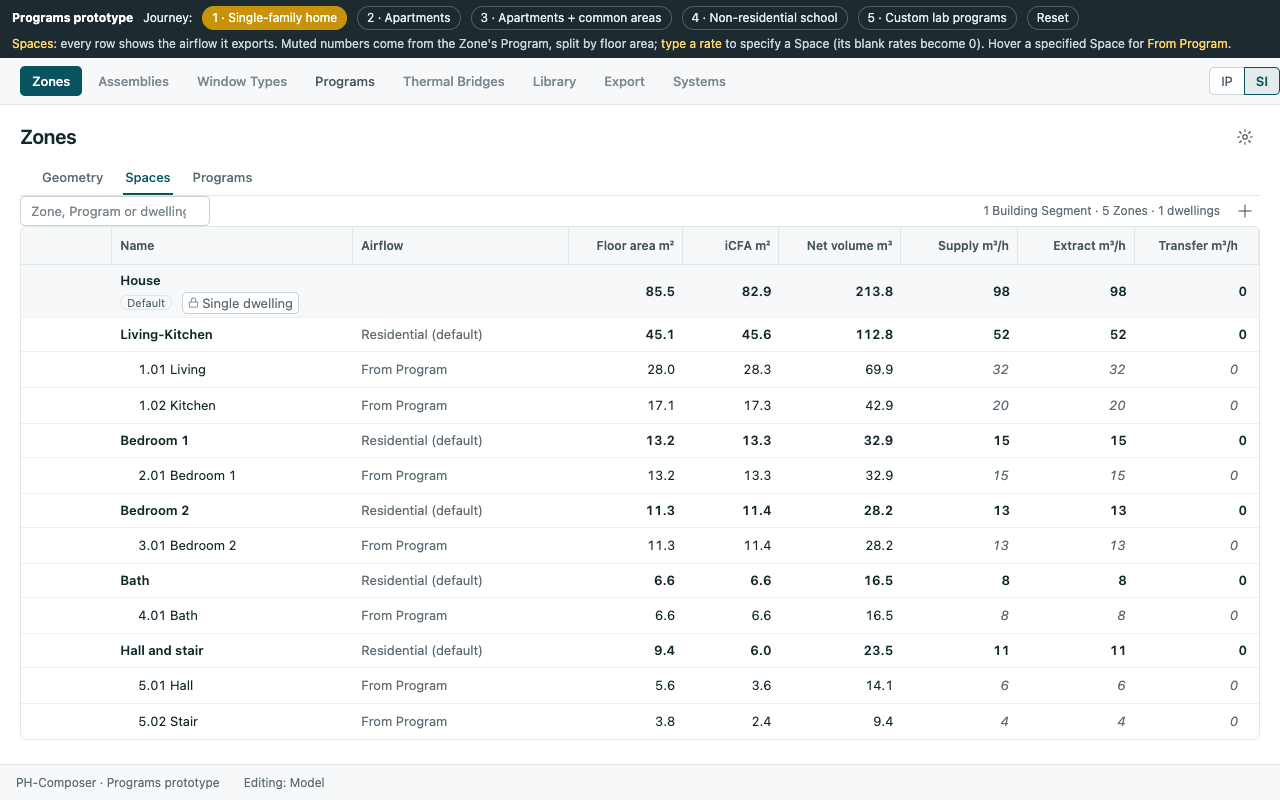
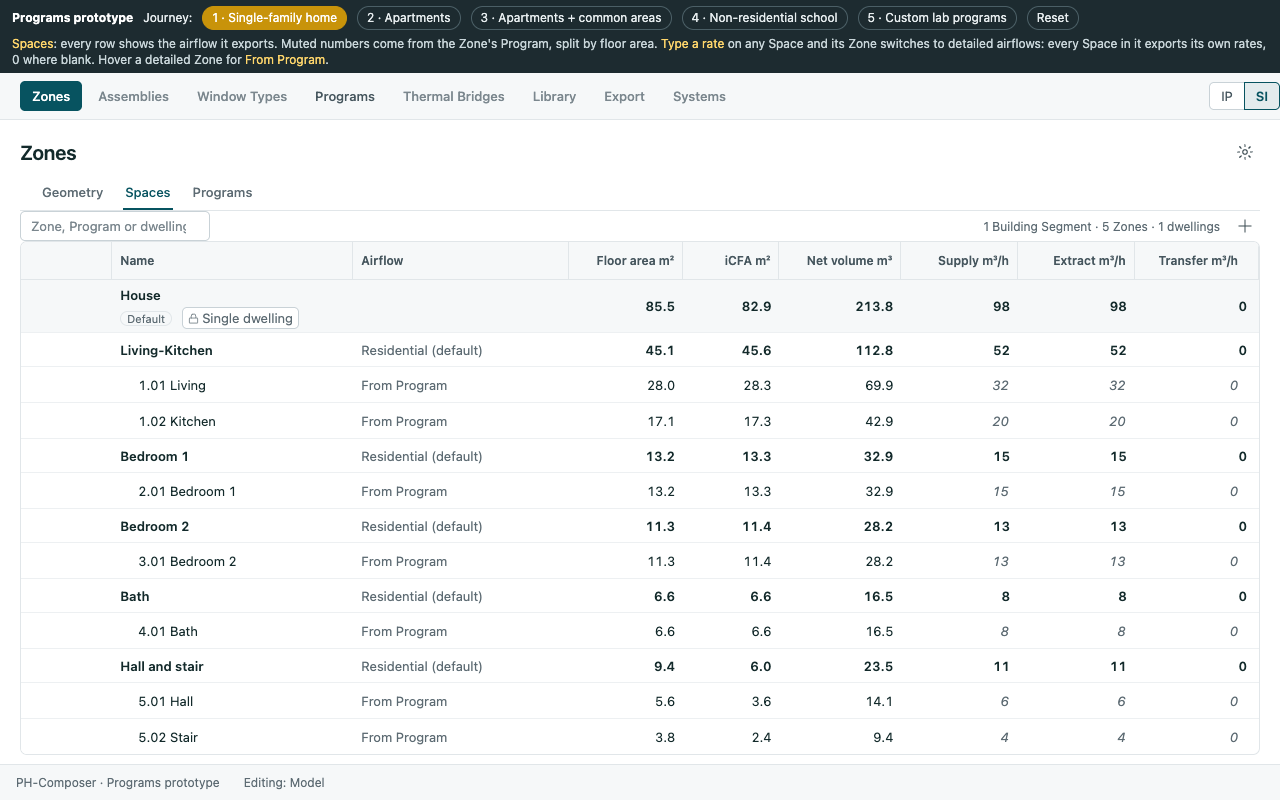
Phase 4a: record Q4a-29 to Q4a-32; detailed airflows become a Zone mode
Once any Space in a Zone has a rate, every Space in it exports its own
rates, 0 where blank (Q4a-29, Q4a-30). EnergyPlus keeps the Program's
Ventilation load (Q4a-31). A Zone with no Spaces is an export warning:
a PHX round trip confirms it builds with iCFA 0 and no ventilation rooms
(F4a-28, Q4a-32). The Spaces mockup follows.

diff --git a/planning/features/phase-04a-program/mockups/programs.html b/planning/features/phase-04a-program/mockups/programs.html
@@ -606,9 +606,13 @@
     dlg.showModal();
   }
   // ---------------------------------------------------------------- Zones / Spaces view: airflow per Space
-  // A Space with no rate entered takes its floor share of the Zone's Program ventilation (PHX's split);
-  // a Space with any rate entered is specified, and its blank rates count as 0. The schedule is always the Program's.
-  function spMode(sp) { return sp.sup === null && sp.eta === null && sp.tran === null ? "program" : "specified"; }
+  // Q4a-29/30: a Zone is From Program until any of its Spaces has a rate; then it uses detailed airflows and every
+  // Space exports its own rates, 0 where blank. From Program, each Space takes its floor share of the Program's
+  // ventilation (PHX's split). The schedule is always the Program's.
+  function hasRate(sp) { return !(sp.sup === null && sp.eta === null && sp.tran === null); }
+  function zoneDetailed(z) { return (z.spaces || []).some(hasRate); }
+  function zoneOf(sp) { var hit = null; S.zones.forEach(function (z) { if ((z.spaces || []).indexOf(sp) >= 0) hit = z; }); return hit; }
+  function spMode(sp) { return zoneDetailed(zoneOf(sp)) ? "specified" : "program"; }
   function spShare(z, sp) { var tot = z.spaces.reduce(function (a, x) { return a + x.area; }, 0); return tot ? sp.area / tot : 0; }
   function zoneVent(z) { var d = derived(z); return d.ventMissing ? null : d.vent; }
   function spFlow(z, sp) {
@@ -617,9 +621,8 @@
     return { sup: v * spShare(z, sp), eta: v * spShare(z, sp), tran: 0 };
   }
   function findSpace(spid) { var hit = null; S.zones.forEach(function (z) { (z.spaces || []).forEach(function (sp) { if (sp.id === spid) hit = { z: z, sp: sp }; }); }); return hit; }
-  function info(text) { return '<span class="zp-info" role="img" aria-label="' + esc(text) + '" data-tip="' + esc(text) + '">' + svg("info", 13) + '</span>'; }
   function flowSum(v, any) { return any ? '<span class="zp-amber" data-tip="The Program has no ventilation rates yet.">?</span>' : fmt(v); }
-  var SPACES_HINT = "<em>Spaces</em>: every row shows the airflow it exports. Muted numbers come from the Zone's Program, split by floor area; <em>type a rate</em> to specify a Space (its blank rates become 0). Hover a specified Space for <em>From Program</em>.";
+  var SPACES_HINT = "<em>Spaces</em>: every row shows the airflow it exports. Muted numbers come from the Zone's Program, split by floor area. <em>Type a rate</em> on any Space and its Zone switches to detailed airflows: every Space in it exports its own rates, 0 where blank. Hover a detailed Zone for <em>From Program</em>.";
   function spacesTable() {
     var COLS = [["name", "Name", 190], ["src", "Airflow", 170], ["area", "Floor area m²", 90, 1], ["icfa", "iCFA m²", 76, 1], ["vol", "Net volume m³", 96, 1], ["sup", "Supply m³/h", 92, 1], ["eta", "Extract m³/h", 92, 1], ["tran", "Transfer m³/h", 98, 1]];
     var tips = { src: "Where each Space's airflow comes from. From Program: the Zone's Program ventilation, split by Space floor area. Specified: the rates entered here. The Program's schedule applies either way.",
@@ -635,27 +638,25 @@
     function numCells(o) { return '<td class="num">' + fmt(o.area, 1) + '</td><td class="num">' + fmt(o.icfa, 1) + '</td><td class="num">' + fmt(o.vol, 1) + '</td><td class="num">' + flowSum(o.sup, o.unknown) + '</td><td class="num">' + flowSum(o.eta, o.unknown) + '</td><td class="num">' + fmt(o.tran) + '</td>'; }
     function zoneRows(z, exported) {
       var p = effectiveProgram(z), o = sums([z]), out = '';
-      var spec = z.spaces.filter(function (sp) { return spMode(sp) === "specified"; }), fromP = z.spaces.length - spec.length, pv = zoneVent(z);
-      var note = "";
-      if (exported && spec.length && fromP) {
-        var a = 0, b = 0; z.spaces.forEach(function (sp) { var f = spFlow(z, sp); if (spMode(sp) === "specified") a += f.sup; else b += f.sup || 0; });
-        note = info("Supply: " + fmt(a) + " m³/h specified, plus " + fmt(b) + " m³/h from the Program for the other Spaces, each at its full floor share. The Program alone gives this Zone " + (pv === null ? "?" : fmt(pv)) + " m³/h.");
-      } else if (exported && spec.length) note = info("Every Space is specified, so the Program's flow is not used. Its schedule still applies.");
-      out += '<tr class="tier-1 zp-zone-row' + (exported ? "" : " zp-out") + '"><td class="col-actions"></td><td>' + esc(z.name) + '</td>' +
-        '<td>' + (exported ? '<span class="zp-src-prog" data-tip="Ventilation from ' + esc(p.name) + ': its flow, split by Space floor area, for Spaces with no rates, and its schedule for every Space.">' + esc(p.name) + '</span>' + note : "Not exported") + '</td>' + numCells(o) + '</tr>';
-      if (!z.spaces.length) out += '<tr class="tier-2 zp-nospace"><td class="col-actions"></td><td colspan="' + COLS.length + '"><span class="zp-sp-name">' + flag("No Spaces: PHX builds ventilation rooms from Spaces, so this Zone would export no ventilation and no iCFA to WUFI-Passive or METr. To confirm (F4a-28, Q4a-32).") + ' No Spaces</span></td></tr>';
+      var detailed = zoneDetailed(z), pv = zoneVent(z);
+      var src = !exported ? "Not exported" : detailed
+        ? '<span class="zp-seg-tag" data-tip="Detailed airflows: a Space in this Zone has a rate, so every Space exports its own rates, 0 where blank. ' + esc(p.name) + ' still gives the schedule; its flow alone would be ' + (pv === null ? "?" : fmt(pv)) + ' m³/h.">Detailed</span> <span class="zp-src-prog">' + esc(p.name) + '</span>'
+        : '<span class="zp-src-prog" data-tip="Ventilation from ' + esc(p.name) + ': its flow, split by Space floor area, and its schedule.">' + esc(p.name) + '</span>';
+      out += '<tr class="tier-1 zp-zone-row' + (exported ? "" : " zp-out") + '"><td class="col-actions">' + (exported && detailed ? '<button type="button" class="phc-icon-button row-icon" data-row-action="reset" data-act="zone-reset" data-v="' + z.id + '" aria-label="From Program: clear every Space\'s rates in ' + esc(z.name) + '" data-tip="From Program: clear every Space\'s rates">' + svg("reset", 16) + '</button>' : "") + '</td><td>' + esc(z.name) + '</td>' +
+        '<td>' + src + '</td>' + numCells(o) + '</tr>';
+      if (!z.spaces.length) out += '<tr class="tier-2 zp-nospace"><td class="col-actions"></td><td colspan="' + COLS.length + '"><span class="zp-sp-name">' + flag("No Spaces: this Zone exports its geometry to WUFI-Passive and METr with no iCFA, net volume or ventilation. Allowed, with an export warning (Q4a-32). Add Spaces before calculating.") + ' No Spaces</span></td></tr>';
       z.spaces.forEach(function (sp) {
         var mode = spMode(sp), f = spFlow(z, sp), share = Math.round(spShare(z, sp) * 100);
-        var inheritTip = "From " + p.name + ": " + share + " % of this Zone's Space floor area. Type a rate to specify this Space; its blank rates then count as 0.";
+        var inheritTip = "From " + p.name + ": " + share + " % of this Zone's Space floor area. Type a rate and this Zone switches to detailed airflows: every Space exports its own rates, 0 where blank.";
         function cell(k) {
           if (!exported) return '<td class="num zp-muted">—</td>';
           if (mode === "program") {
             var ph = k === "tran" ? "0" : (f[k] === null ? "?" : fmt(f[k]));
             return '<td class="num phc-editable-cell"><input class="phc-cell-input zp-flow is-inherit" data-act="sp-flow" data-v="' + sp.id + '" data-k="' + k + '" value="" placeholder="' + ph + '" aria-label="' + esc(sp.name) + ' ' + k + '" data-tip="' + esc(k === "tran" ? "No transfer air from the Program. " + inheritTip : inheritTip) + '"></td>';
           }
-          return '<td class="num phc-editable-cell"><input class="phc-cell-input zp-flow" data-act="sp-flow" data-v="' + sp.id + '" data-k="' + k + '" value="' + (sp[k] === null ? "" : sp[k]) + '" placeholder="0" aria-label="' + esc(sp.name) + ' ' + k + '"' + (sp[k] === null ? ' data-tip="Blank counts as 0: this Space is specified."' : "") + '></td>';
+          return '<td class="num phc-editable-cell"><input class="phc-cell-input zp-flow" data-act="sp-flow" data-v="' + sp.id + '" data-k="' + k + '" value="' + (sp[k] === null ? "" : sp[k]) + '" placeholder="0" aria-label="' + esc(sp.name) + ' ' + k + '"' + (sp[k] === null ? ' data-tip="Blank exports 0: this Zone uses detailed airflows."' : "") + '></td>';
         }
-        out += '<tr class="tier-2"><td class="col-actions">' + (exported && mode === "specified" ? '<button type="button" class="phc-icon-button row-icon" data-row-action="reset" data-act="sp-reset" data-v="' + sp.id + '" aria-label="From Program: clear ' + esc(sp.name) + '\'s rates" data-tip="From Program: clear the three rates">' + svg("reset", 16) + '</button>' : "") + '</td>' +
+        out += '<tr class="tier-2"><td class="col-actions"></td>' +
           '<td><span class="zp-sp-name">' + sp.num + ' ' + esc(sp.name) + '</span></td>' +
           '<td class="zp-src' + (mode === "specified" ? " is-specified" : "") + '">' + (exported ? (mode === "specified" ? "Specified" : "From Program") : "") + '</td>' +
           '<td class="num">' + fmt(sp.area, 1) + '</td><td class="num">' + fmt(sp.icfa, 1) + '</td><td class="num">' + fmt(sp.vol, 1) + '</td>' + cell("sup") + cell("eta") + cell("tran") + '</tr>';
@@ -996,7 +997,7 @@
     else if (a === "reset") { S = baseState(S.journey); }
     else if (a === "tab") { S.tab = v; S.bubble = null; }
     else if (a === "ztab") { S.ztab = v; S.checked = {}; S.bubble = null; }
-    else if (a === "sp-reset") { var hs = findSpace(v); hs.sp.sup = hs.sp.eta = hs.sp.tran = null; notify(hs.sp.num + " " + hs.sp.name + " uses its Zone's Program airflow again."); }
+    else if (a === "zone-reset") { var rz = S.zones.filter(function (z) { return z.id === v; })[0]; rz.spaces.forEach(function (sp) { sp.sup = sp.eta = sp.tran = null; }); notify(rz.name + " uses its Program's airflow again."); }
     else if (a === "ptab") { S.ptab = v; }
     else if (a === "check") { if (el.checked) S.checked[v] = 1; else delete S.checked[v]; }
     else if (a === "check-all") { S.checked = {}; if (el.checked) checkable().forEach(function (z) { S.checked[z.id] = 1; }); }
@@ -1032,7 +1033,13 @@
     var el = e.target, a = el.getAttribute("data-act"), v = el.getAttribute("data-v"); if (!a) return;
     if (a === "zone-program") assignProgram(S.zones.filter(function (z) { return z.id === v; }), el.value);
     else if (a === "bulk-program") assignProgram(S.zones.filter(function (z) { return S.checked[z.id]; }), el.value);
-    else if (a === "sp-flow") { var hf = findSpace(v); hf.sp[el.getAttribute("data-k")] = el.value === "" ? null : Math.max(0, parseFloat(el.value) || 0); }
+    else if (a === "sp-flow") {
+      var hf = findSpace(v), was = zoneDetailed(hf.z);
+      hf.sp[el.getAttribute("data-k")] = el.value === "" ? null : Math.max(0, parseFloat(el.value) || 0);
+      var others = hf.z.spaces.filter(function (x) { return x !== hf.sp && !hasRate(x); }).length;
+      if (!was && zoneDetailed(hf.z)) notify(hf.z.name + " now uses detailed airflows" + (others ? ": its other " + (others === 1 ? "Space exports" : others + " Spaces export") + " 0 until you enter " + (others === 1 ? "its rates." : "theirs.") : "."));
+      else if (was && !zoneDetailed(hf.z)) notify(hf.z.name + " uses its Program's airflow again.");
+    }
     else if (a === "zone-dwelling") { assignDwelling(S.zones.filter(function (z) { return z.id === v; }), el.value); S.bubble = null; }
     else if (a === "bulk-dwelling") assignDwelling(S.zones.filter(function (z) { return S.checked[z.id]; }), el.value);
     else if (a === "bulk-set") { var zs = S.zones.filter(function (z) { return S.checked[z.id]; }); zs.forEach(function (z) { z.set = el.value === "none" ? null : el.value; if (z.dwelling) dw(z.dwelling).set = z.set; }); notify("Equipment Set changed on " + zs.length + " Zones."); }

diff --git a/planning/features/phase-04a-program/research/ventilation.md b/planning/features/phase-04a-program/research/ventilation.md
@@ -1,7 +1,7 @@
 # Research: Zone ventilation and Space airflows
 
 DATE: 2026-11-15
-STATUS: Research complete; proposal for review (Q4a-29 to Q4a-32). Read from source, not run.
+STATUS: Research complete. Ed answered Q4a-29 to Q4a-32 on 2026-11-15. F4a-28 confirmed by a PHX round trip; the rest read from source.
 AUTHOR: Ed May, BLDGTYP, with Claude
 ISSUE: none (local planning draft)
 
@@ -43,29 +43,36 @@ honeybee-energy 1.123.23 (pinned wheel), PHX 1.59.1 (local checkout), honeybee_g
 | F4a-25 | **In a Zone with some Spaces overridden, the others still get their floor share of the whole Program flow, not what is left.** The Zone's exported total is the overrides plus the inheriting shares, and can exceed or fall short of the Program total |
 | F4a-26 | The schedule always comes from the Room's Ventilation load (rule 4 holds today). A Room with no Ventilation load exports zero flow on a constant default pattern, even where its Spaces carry overrides they keep |
 | F4a-27 | Transfer air reaches PHPP only. WUFI-Passive and METr receive supply and extract |
-| F4a-28 | PHX builds ventilation rooms only from Spaces (`create_building.py` maps each Space; `cleanup.check_room_has_spaces` is a no-op). A Zone with no Spaces would export no ventilation and no iCFA. Read, not run: test before relying on it |
+| F4a-28 | PHX builds ventilation rooms only from Spaces (`create_building.py` maps each Space; `cleanup.check_room_has_spaces` is a no-op). **Confirmed 2026-11-15** by a round trip through PHX 1.59.1 (a 6 × 5 × 3 m honeybee Room, no Spaces): the WUFI XML and METr JSON build without error and without a Space warning; one Zone with its 3 components and gross volume 90 m³, but iCFA 0, `NetVolume` 0 and `<RoomsVentilation count="0"/>`. The Grasshopper WUFI writer (`gh_compo_io/write_wuif_xml.py`) runs the same PHX conversion and surfaces only its WARNING lines |
 | F4a-29 | The Grasshopper hosting step folds Space overrides into the Room's honeybee Ventilation. If PH-Composer did the same, PHX would then split that folded total among the inheriting Spaces (F4a-25) and count the overrides twice. Read, not run |
 
 ## Proposal
 
-1. **Keep the any-set rule.** A Space is either *From Program* or *Specified*; once one rate is
-   entered, the other two are 0. That is the PH design cascade: a bedroom is a supply room, a bath an
-   extract room, a hall a transfer room, so a Space given only supply should have extract 0, not a
-   Program-derived extract. It also matches the Grasshopper component and avoids F4a-24's mixing.
-2. **Every exported Room carries its Program's Ventilation load, unchanged.** The residential default
-   has one, so rule 4 always has a schedule. Never fold Space overrides into the Room (F4a-29).
-3. **The Spaces view shows the effective airflow on every row.** An inheriting Space shows its
-   Program share as a muted number, not the word "Zone", with a tooltip naming the Program and the
-   floor share. A specified Space shows what was entered. Zone sums are always shown, so F4a-25 is
-   visible instead of hidden behind a dash. A "From Program" action on a specified Space clears all
-   three rates.
+1. **Detailed airflows are a Zone mode (Q4a-29, Q4a-30).** A Zone is *From Program* until any of
+   its Spaces has a rate. Then it uses detailed airflows: every Space in it exports its own rates,
+   0 where blank, and none takes a Program share. This replaces PH-Composer's per-Space any-set rule
+   and makes F4a-25 moot for PH-Composer. It follows the PH design cascade (a bedroom supplies, a
+   bath extracts, a hall transfers): a user who enters the bedroom's rate expects the hall's to be
+   its own, 0 until entered. Export writes `_v_sup`, `_v_eta` and `_v_tran` on every Space of a
+   detailed Zone and `None` on every Space of a From Program Zone, so PHX never mixes the two.
+2. **Every exported Room carries its Program's Ventilation load, unchanged (Q4a-31).** It is the
+   schedule for every Space, the flow for a From Program Zone, and EnergyPlus's ventilation either
+   way. Never fold Space rates into the Room (F4a-29).
+3. **The Spaces view shows the effective airflow on every row.** In a From Program Zone each Space
+   shows its share as a muted number, with a tooltip naming the Program and the floor share. In a
+   detailed Zone each Space shows what was entered and a muted 0 where blank. The Zone row shows a
+   "Detailed" tag and its Program as the schedule source; Zone sums are always shown. Entering the
+   first rate in a Zone says so in a notice ("its other 3 Spaces export 0 until you enter theirs").
+   **From Program** sits on the Zone row and clears every Space's rates in that Zone; clearing the
+   last rate by hand does the same.
 4. **One Ruby calculation**, matching PHX (four terms summed, split by unweighted Space floor area),
    feeds both the Programs view's Zone column and the Spaces view's Space shares. Its per-person
    term needs the Zone's people, which for the residential default come from its Dwelling
    (bedrooms + 1, F4a-20). So the occupancy derivation must live in Ruby, not only in the Python
    translation, and the Spaces view's shares follow Programs and Dwellings in the build order.
 5. **Transfer column tooltip:** PHPP only; WUFI-Passive and METr do not read it.
-6. **A Zone with no Spaces** gets an export finding once F4a-28 is confirmed by a round trip.
+6. **A Zone with no Spaces is an export warning, not an error (Q4a-32).** WUFI-Passive and METr open
+   such a file; it will not calculate until Spaces are added. The Spaces view flags the Zone.
 
 The [Programs prototype](../mockups/README.md) shows items 1, 3, 5 and 6 in Zones → Spaces
 (`j1-spaces`, `j1-spaces-cascade`, `j3-spaces`).
@@ -78,3 +85,17 @@ The [Programs prototype](../mockups/README.md) shows items 1, 3, 5 and 6 in Zone
 | Q4a-30 | In a partly specified Zone, inheriting Spaces get their floor share of the full Program flow (PHX today). Accept that and show it, or ask PHX to split only the remainder? | Accept and show it; a remainder rule is a PHX change and less predictable per Space |
 | Q4a-31 | EnergyPlus: should the Room's honeybee Ventilation reflect Space overrides, as the Grasshopper path does? It conflicts with PHX's split (F4a-29) | Not now. Room keeps the Program's load; revisit with an EnergyPlus exporter |
 | Q4a-32 | A Zone with no Spaces: export finding only, or write a default Space covering the Zone? | Confirm F4a-28 first; then a finding |
+
+## Answers (Ed, 2026-11-15)
+
+| Id | Answer |
+| --- | --- |
+| Q4a-29 | **Yes:** blank rates export 0 once rates are entered, now applied per Zone (Q4a-30) |
+| Q4a-30 | **No remainder split, and no floor shares in a partly specified Zone:** once any Space in a Zone has a rate, the Zone uses detailed airflows and every Space exports its own rates, 0 where blank. This supersedes F4a-25 for PH-Composer. Claude agreed, with the notice on the first entry and a Zone-level From Program as the safeguards |
+| Q4a-31 | **The Program's Ventilation load for EnergyPlus**, unchanged, for now |
+| Q4a-32 | **A warning, not an error.** Confirmed allowed by the round trip (F4a-28); the file opens and does not calculate until Spaces are added |
+
+What changes in the existing Spaces feature: the any-set rule moves from the Space to the Zone in
+`features/spaces/scan/metrics.rb` (`airflow_mode`, `airflows`, Zone sums),
+`python/ph_composer_translation/space_sections.py` (`airflow_rates`) and the Spaces view
+(`html/features/spaces/cells.js`, `view.js`: placeholders, tooltips, the Zone sums' dash).

diff --git a/planning/features/phase-04a-program/DECISIONS.md b/planning/features/phase-04a-program/DECISIONS.md
@@ -1,7 +1,7 @@
 # Phase 4a: findings and open questions
 
 DATE: 2026-11-14
-STATUS: Findings F4a-01 to F4a-23 recorded. Interviewed 2026-11-14: fifteen questions answered, Q4a-08 decided by Claude on Ed's delegation; Q4a-01, Q4a-16 and Q4a-18 open (none gates the prototype). The GUI prototype raised Q4a-19 to Q4a-28; Ed's first review answered Q4a-19, Q4a-20 and Q4a-26; he answered Q4a-27 and Q4a-28 on 2026-11-15.
+STATUS: Findings F4a-01 to F4a-23 recorded. Interviewed 2026-11-14: fifteen questions answered, Q4a-08 decided by Claude on Ed's delegation; Q4a-01, Q4a-16 and Q4a-18 open (none gates the prototype). The GUI prototype raised Q4a-19 to Q4a-28; Ed's first review answered Q4a-19, Q4a-20 and Q4a-26; he answered Q4a-27 to Q4a-32 on 2026-11-15.
 AUTHOR: Ed May, BLDGTYP, with Claude
 ISSUE: none (local planning draft)
 
@@ -87,7 +87,7 @@ F4a-17 to F4a-21.
 
 Ed reviewed the [GUI prototype](mockups/README.md) on 2026-11-14 and accepted its division of
 work: the Programs tab defines Programs, Schedules and Equipment Sets, and Zones → Programs assigns
-them. He answered three of the questions it raised, and two more on 2026-11-15:
+them. He answered three of the questions it raised, and Q4a-27 to Q4a-32 on 2026-11-15:
 
 | Id | Answer | What follows |
 | --- | --- | --- |
@@ -96,6 +96,10 @@ them. He answered three of the questions it raised, and two more on 2026-11-15:
 | Q4a-26 | **A Single dwelling switch** at the top of Zones → Programs. When it is on, every Zone is one dwelling with the residential default Program, in one residential Building Segment, and the table is locked: a single-family user enters the bedrooms once and is done. Switching it off opens per-Zone assignment | Claude's design, to confirm in the prototype: the switch is a Model setting and the locked values derive from it rather than being written to each Zone, so a new Zone joins the house without action. The house row takes bedrooms, occupants (Phius rule when empty) and the Equipment Set. Switching off keeps the house dwelling, its counts and the default Program as ordinary assignments. Switching on over per-Zone assignments confirms first and names what gives way: Programs chosen per Zone, extra dwellings, a non-residential category, other Building Segments; per-Zone bedrooms are added up. Forcing one Building Segment overrides the Geometry view's Segment assignment, which the mockup cannot show. Counts held on the dwelling bear on Q4a-24 |
 | Q4a-27 | **On for every new Model.** Single-family is the app's default state | A user modelling apartments or a non-residential building switches it off once. The default belongs to the setting (Q4a-26), so nothing is written to a Zone until the user switches it off. Since BS-3 it is the new Model's one Building Segment that starts with it on |
 | Q4a-28 | **Yes, publish them.** The values come from public documents and are not Phius's intellectual property: the non-residential programs from the Phius Certification Guidebook, and the multifamily space types from the Phius Multifamily Lighting and Misc Load Calculator. ph-composer-standards may carry both | Each `phius/` file names its source document and edition. honeybee-ph's `PHIUS_programs.py` cites Guidebook v3.02 Table N-10 and the Multi-Family Calculator of 2021-03-23; check those against the current editions before the files are generated |
+| Q4a-29 | **Blank rates export 0 once rates are entered**, applied per Zone (Q4a-30) | [ventilation](research/ventilation.md#answers-ed-2026-11-15) |
+| Q4a-30 | **Detailed airflows are a Zone mode.** Once any Space in a Zone has a rate, every Space in it exports its own rates, 0 where blank; no Program shares in that Zone. Supersedes F4a-25 for PH-Composer | Moves the existing any-set rule from the Space to the Zone in the Spaces feature and its export. The first entry says so in a notice; From Program on the Zone row clears it |
+| Q4a-31 | **The Program's Ventilation load for EnergyPlus**, unchanged, for now | Space rates are never folded into the Room (F4a-29) |
+| Q4a-32 | **A Zone with no Spaces is an export warning, not an error** | Confirmed by a PHX round trip (F4a-28): the file opens with iCFA 0 and no ventilation rooms |
 
 **Revised 2026-11-15 by the [Building Segments plan](../unscheduled/building-segments/README.md#answers-ed-2026-11-15)
 (BS-3):** Single dwelling is an attribute and control of each Building Segment, not of the Model.
@@ -109,7 +113,7 @@ carries Phase 4a before Phase 4), Q4a-16 (Space Types; leaning: always inherit f
 ## Questions the prototype raised
 
 From the [GUI prototype](mockups/README.md), 2026-11-14. Each carries what the prototype shows now;
-Q4a-19, Q4a-20, Q4a-26, Q4a-27 and Q4a-28 are answered above; the rest are open.
+Q4a-19, Q4a-20 and Q4a-26 to Q4a-32 are answered above; Q4a-21 to Q4a-25 are open.
 
 | Id | Question | The prototype shows |
 | --- | --- | --- |
@@ -123,7 +127,7 @@ Q4a-19, Q4a-20, Q4a-26, Q4a-27 and Q4a-28 are answered above; the rest are open.
 | Q4a-26 | Ed's Single dwelling switch (2026-11-14) | Answered above; revised by BS-3 to a per-Segment switch |
 | Q4a-27 | Is Single dwelling on by default for a new Model? | Answered above. On in journey 1; journeys 2 to 5 start with it off because they model other buildings |
 | Q4a-28 | May the Phius program values be published in the public ph-composer-standards repository, with a note of their source and terms? honeybee-ph already publishes them; Phius's terms decide. Ed to confirm | Answered above |
-| Q4a-29 | Space airflows: keep the any-set rule, or let each rate override on its own? (Ed, 2026-11-15, [ventilation](research/ventilation.md#open-questions)) | Not shown. Recommendation: keep the any-set rule |
-| Q4a-30 | In a partly specified Zone, inheriting Spaces get their floor share of the full Program flow. Accept and show it, or split only the remainder? | Not shown. Recommendation: accept and show it in the Spaces view |
-| Q4a-31 | Should the Room's honeybee Ventilation reflect Space overrides for EnergyPlus, as the Grasshopper path does? | Not shown. Recommendation: not now |
-| Q4a-32 | A Zone with no Spaces: an export finding, or a default Space? | Not shown. Confirm F4a-28 by a round trip first |
+| Q4a-29 | Space airflows: keep the any-set rule, or let each rate override on its own? (Ed, 2026-11-15, [ventilation](research/ventilation.md#open-questions)) | Answered above |
+| Q4a-30 | In a partly specified Zone, inheriting Spaces get their floor share of the full Program flow. Accept and show it, or split only the remainder? | Answered above |
+| Q4a-31 | Should the Room's honeybee Ventilation reflect Space overrides for EnergyPlus, as the Grasshopper path does? | Answered above |
+| Q4a-32 | A Zone with no Spaces: an export finding, or a default Space? | Answered above |

diff --git a/planning/features/phase-04a-program/mockups/README.md b/planning/features/phase-04a-program/mockups/README.md
@@ -22,7 +22,7 @@ server. The dark strip at the top picks a journey and says what to try; Reset re
 | 4. Non-residential school | Unassigned Zones are flagged; assign from Phius Non-Residential, or browse the library sidebar | `j4-start` (`journey=4`), `j4-assigned` (`journey=4&do=school`), `j4-library` (`journey=4&do=school,libnr`), `j4-long-name` (`journey=4&do=school,longname`) |
 | 5. Custom lab programs | Programs tab, + on the rail, set loads, open a schedule chip | `j5-program` and `-420` (`journey=5&do=custom`), `j5-schedule` (`journey=5&do=custom,customsched`) |
 | Equipment Sets | Programs tab, Equipment Sets | `equipment-sets` (`journey=1&do=sets`) |
-| Zones → Spaces (journey 1, then 3) | Zones, Spaces subtab. Type a Supply, Extract or Transfer rate on a Space; hover a specified Space for From Program | `j1-spaces` (`journey=1&do=house3,spaces`), `j1-spaces-cascade` (`…,spaces,cascade`), `j3-spaces` (`journey=3&do=each,beds,common,spaces,cascade`) |
+| Zones → Spaces (journey 1, then 3) | Zones, Spaces subtab. Type a Supply, Extract or Transfer rate on a Space and its Zone turns detailed; hover the Zone for From Program | `j1-spaces` (`journey=1&do=house3,spaces`), `j1-spaces-cascade` (`…,spaces,cascade`), `j3-spaces` (`journey=3&do=each,beds,common,spaces,cascade`) |
 
 ## What the prototype proposes
 
@@ -64,13 +64,13 @@ server. The dark strip at the top picks a journey and says what to try; Reset re
   unassigned Zone shows the residential default in italics.
 - **Zones → Spaces** ([ventilation research](../research/ventilation.md)): Building Segment, Zone
   and Space rows with floor area, iCFA, net volume and Supply, Extract and Transfer. Every row shows
-  the airflow it exports. A Space with no rate entered is *From Program*: a muted italic number, its
-  floor share of the Zone's Program ventilation, named in the tooltip. Typing any rate makes it
-  *Specified*, its blank rates 0 (Q4a-29); From Program in its Actions cell clears them. The Zone row
-  names its Program and always shows its sums; an (i) explains a partly specified Zone, whose other
-  Spaces keep their full share (F4a-25). Transfer's header says it reaches PHPP only (F4a-27). A
-  Zone with no Spaces shows a finding (F4a-28). Shares are illustrative: the residential default's
-  people come from the Dwelling, and that calculation is not built.
+  the airflow it exports. In a From Program Zone, each Space shows its floor share of the Program's
+  ventilation as a muted italic number, named in the tooltip. Typing any rate switches the Zone to
+  detailed airflows (Q4a-29, Q4a-30): a notice says its other Spaces export 0, the Zone row shows a
+  "Detailed" tag with its Program as the schedule source, and From Program in the Zone's Actions
+  cell clears every rate. Zone sums are always shown. Transfer's header says it reaches PHPP only
+  (F4a-27). A Zone with no Spaces shows the export warning (Q4a-32). Shares are illustrative: the
+  residential default's people come from the Dwelling, and that calculation is not built.
 - **The Dwelling cell** opens a bubble anchored to it: first the Zone's dwelling (an existing
   one, New dwelling, or Not a dwelling), then that dwelling's units, Zones, bedrooms, occupants and
   iCFA. A "None" cell opens the same chooser (`j1-unlocked` shows it on House).

diff --git a/planning/features/phase-04a-program/README.md b/planning/features/phase-04a-program/README.md
@@ -75,7 +75,7 @@ until the cross-repo fix for F4a-13 ships (Q4a-08).
 
 ## Next
 
-1. Review the [GUI prototype](mockups/README.md) and answer Q4a-21 to Q4a-25 and Q4a-29 to Q4a-32; iterate.
+1. Review the [GUI prototype](mockups/README.md) and answer Q4a-21 to Q4a-25; iterate. Q4a-29 to Q4a-32 were answered on 2026-11-15.
    Q4a-19, Q4a-20 and Q4a-26 were answered in the first review, Q4a-27 and Q4a-28 on 2026-11-15.
 2. PRD, contracts and stages, worked back from the accepted prototype. Implementation needs
    separate authorization.
